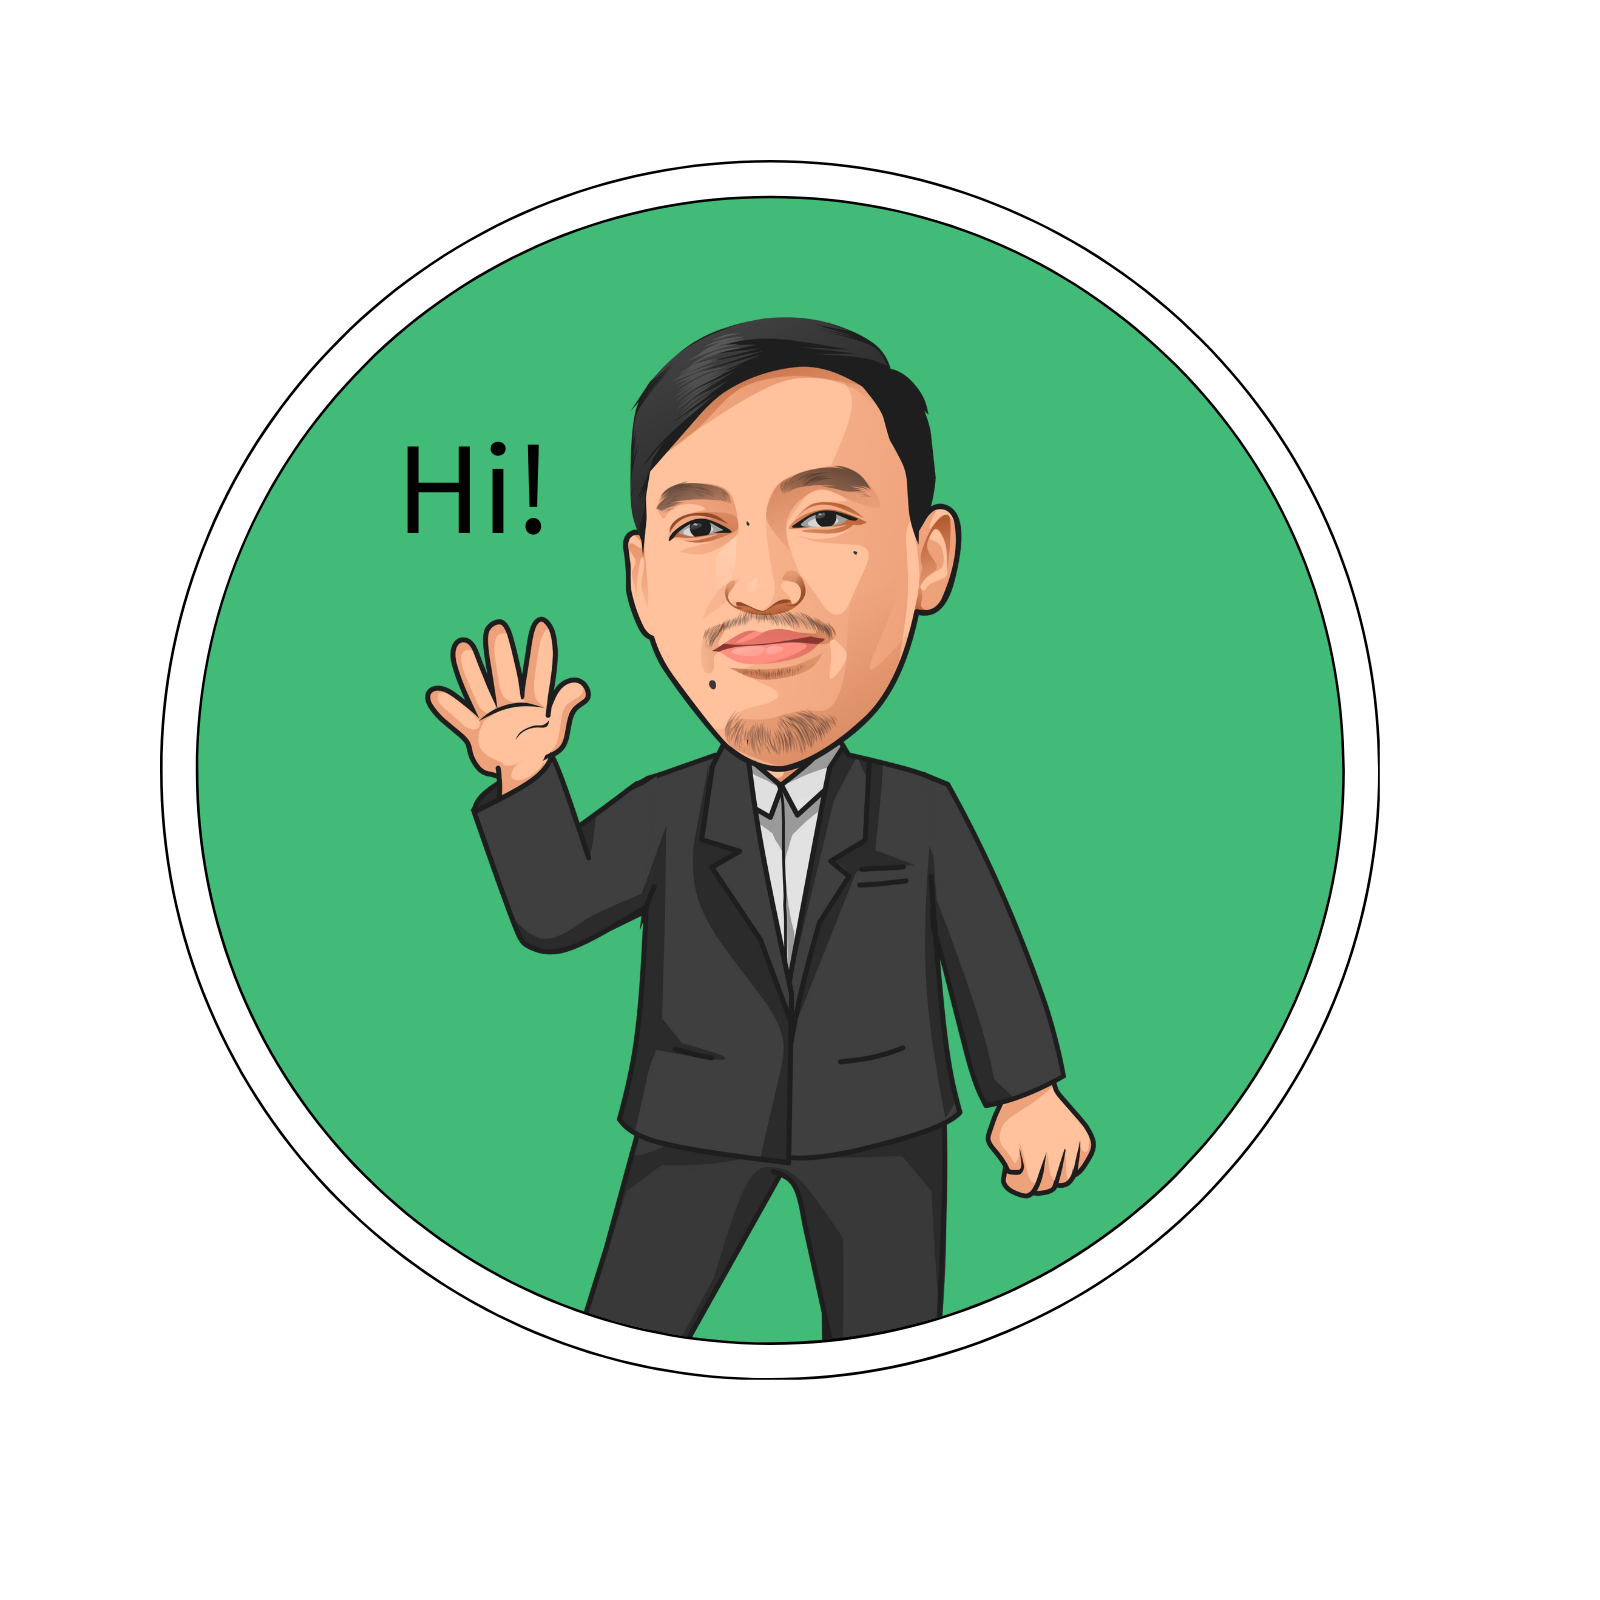
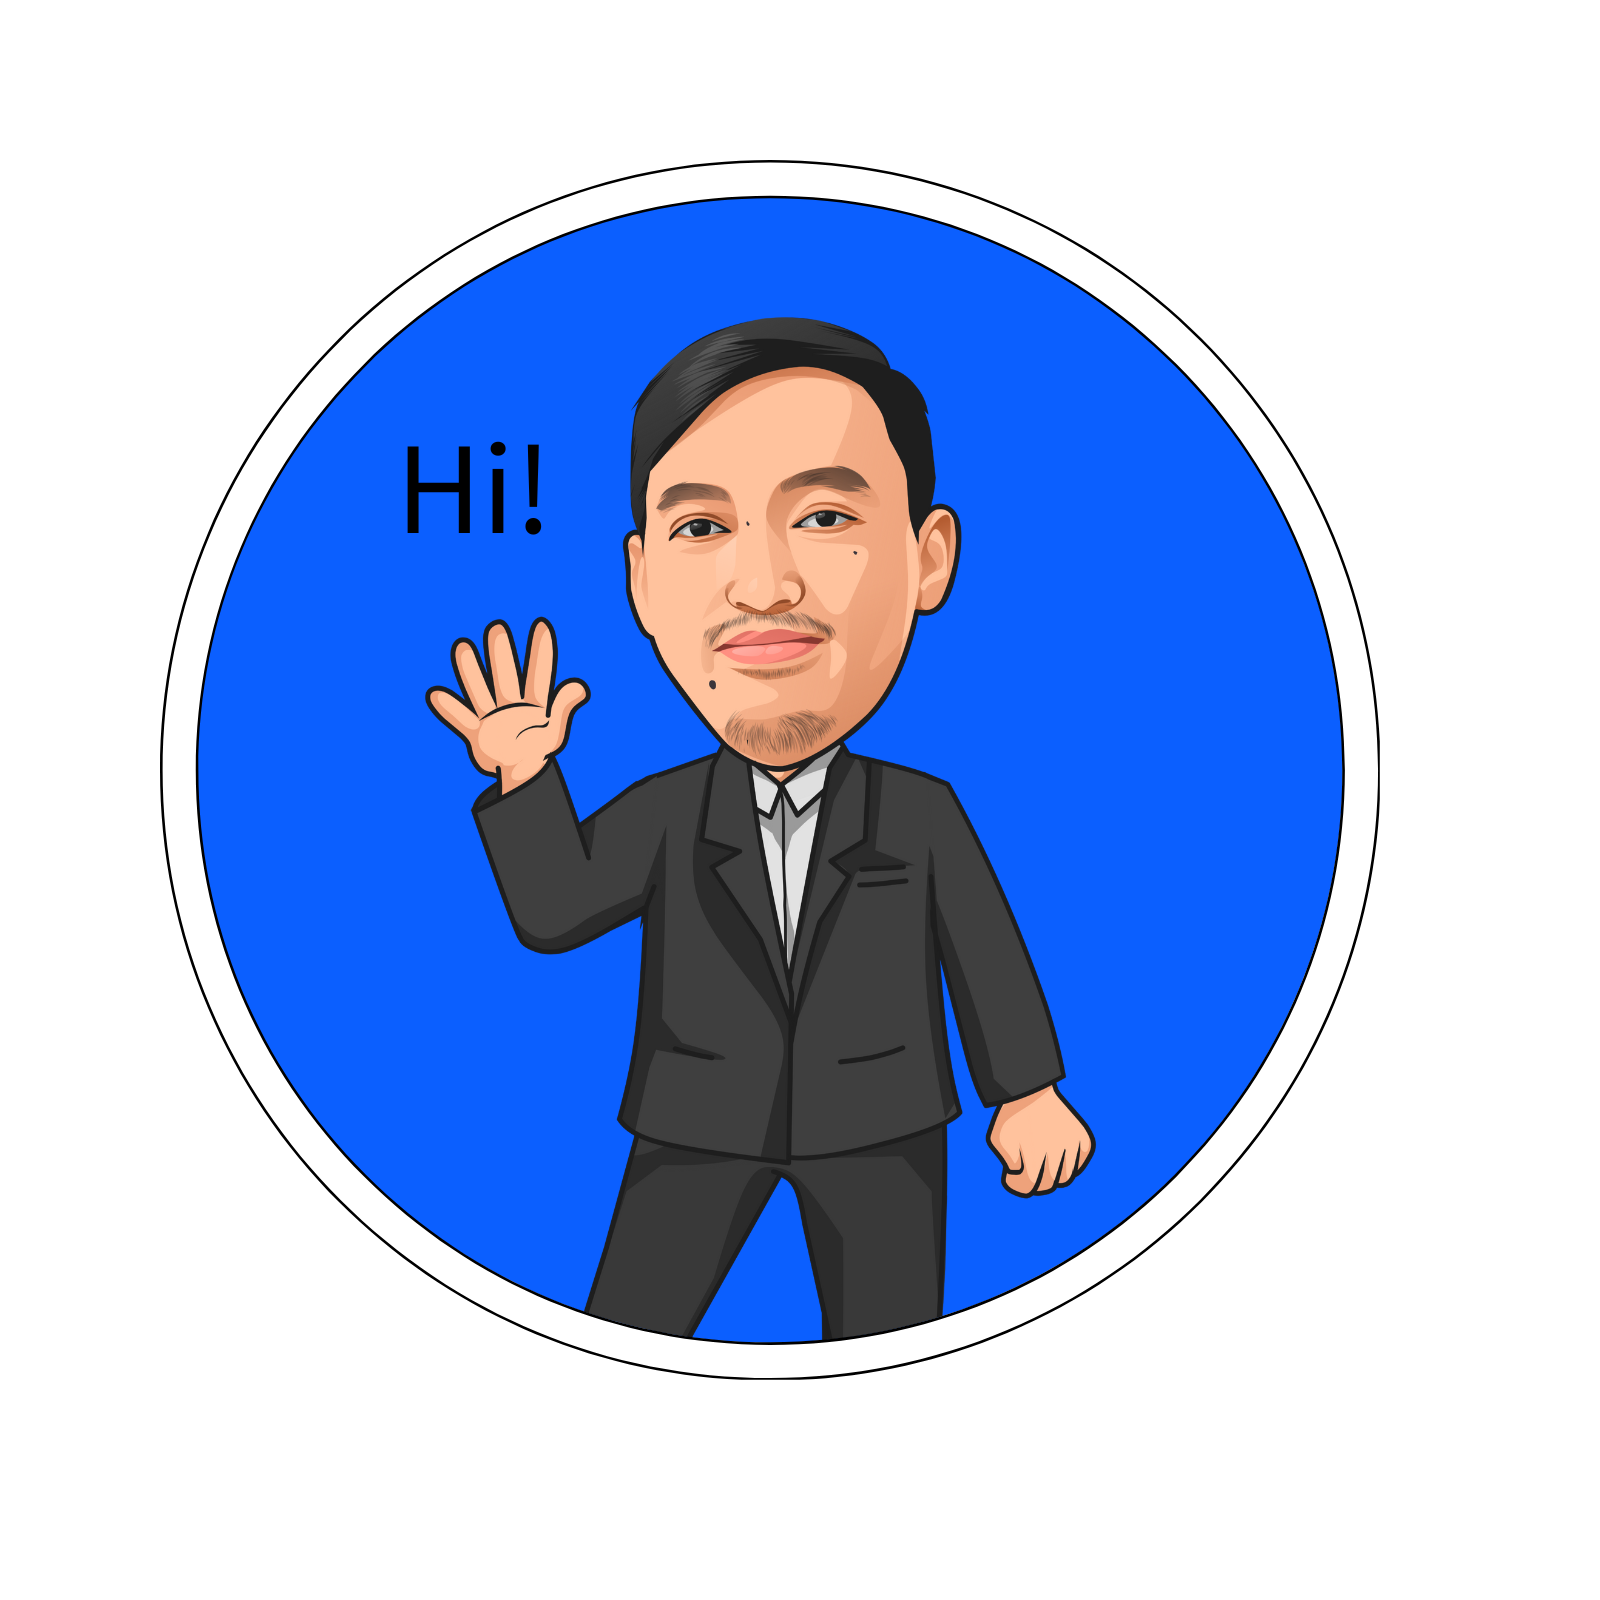
change background color

Changed region(s): [[0.125, 0.125, 0.8438, 0.8438], [0.4375, 0.7188, 0.5312, 0.8438]]

diff --git a/portfolio.html b/portfolio.html
@@ -24,13 +24,13 @@
 </head>
 <body class="min-h-screen bg-white text-gray-900">
     <!-- Hero Section -->
-    <section class="h-screen flex items-center justify-center bg-[#42ba78] text-white">
+    <section class="h-screen flex items-center justify-center bg-[#0b5fff] text-white">
         <div class="text-center">
             <img src="img/profile.png?height=500&width=500" alt="Sereyutdam Song" class="rounded-full w-48 h-48 object-cover mx-auto mb-8">
             <h1 class="text-5xl font-bold mb-4 animate-fadeInUp">Sereyutdam Song</h1>
             <p class="text-2xl mb-8 animate-fadeInUp" style="animation-delay: 0.2s;">E-Learning Specialist & Instructional Designer</p>
             <div class="animate-fadeInUp" style="animation-delay: 0.4s;">
-                <button class="bg-white text-blue-500 px-6 py-3 rounded-full font-semibold text-lg hover:bg-opacity-90 transition duration-300" onclick="document.getElementById('about').scrollIntoView({behavior: 'smooth'})">
+                <button class="bg-white text-[#0b5fff] px-6 py-3 rounded-full font-semibold text-lg hover:bg-opacity-90 transition duration-300" onclick="document.getElementById('about').scrollIntoView({behavior: 'smooth'})">
                     Learn More <i data-lucide="chevron-down" class="inline ml-2"></i>
                 </button>
             </div>
@@ -132,26 +132,24 @@
                     <input type="email" placeholder="Your Email" required class="w-full px-3 py-2 border border-gray-300 rounded-md">
                     <input type="text" placeholder="Subject" required class="w-full px-3 py-2 border border-gray-300 rounded-md">
                     <textarea placeholder="Your Message" required class="w-full px-3 py-2 border border-gray-300 rounded-md h-32"></textarea>
-                    <button type="submit" class="w-full bg-blue-500 text-white px-6 py-3 rounded-md font-semibold hover:bg-blue-600 transition duration-300">Send Message</button>
+                    <button type="submit" class="w-full bg-[#0b5fff] text-white px-6 py-3 rounded-md font-semibold hover:bg-[#0b5fff] transition duration-300">Send Message</button>
                 </form>
             </div>
         </div>
     </section>
 
     <!-- Footer -->
-    <footer class="py-6 bg-blue-500 text-white text-center">
+    <footer class="py-6 bg-[#0b5fff] text-white text-center">
         <p>&copy; 2024 Sereyutdam Song. All rights reserved.</p>
     </footer>
 
     <script>
         // Projects data
         const projects = [
-            { id: 1, title: "Corporate Training Program", category: "e-learning", image: "/placeholder.svg?height=200&width=300" },
-            { id: 2, title: "Interactive Language Course", category: "language", image: "/placeholder.svg?height=200&width=300" },
-            { id: 3, title: "Gamified Math Lessons", category: "gamification", image: "/placeholder.svg?height=200&width=300" },
-            { id: 4, title: "Virtual Reality History Tour", category: "vr", image: "/placeholder.svg?height=200&width=300" },
-            { id: 5, title: "Adaptive Learning Platform", category: "e-learning", image: "/placeholder.svg?height=200&width=300" },
-            { id: 6, title: "Microlearning Mobile App", category: "mobile", image: "/placeholder.svg?height=200&width=300" },
+            { id: 1, title: "Lectora Basic Training", category: "e-learning", image: "/placeholder.svg?height=200&width=300" },
+            { id: 2, title: "Digital Math Content", category: "e-learning", image: "/placeholder.svg?height=200&width=300" },
+            { id: 3, title: "Geography Matters", category: "gamification", image: "/placeholder.svg?height=200&width=300" },
+            { id: 4, title: "Virtual Reality Anatomy 101", category: "vr", image: "/placeholder.svg?height=200&width=300" },
         ];
 
         // Testimonials data
@@ -170,7 +168,7 @@
         filterButtons.forEach(filter => {
             const button = document.createElement('button');
             button.textContent = filter.charAt(0).toUpperCase() + filter.slice(1);
-            button.className = `px-4 py-2 rounded-md ${filter === 'all' ? 'bg-blue-500 text-white' : 'bg-gray-200 text-gray-800'}`;
+            button.className = `px-4 py-2 rounded-md ${filter === 'all' ? 'bg-[#0b5fff] text-white' : 'bg-gray-200 text-gray-800'}`;
             button.onclick = () => filterProjects(filter);
             portfolioFilters.appendChild(button);
         });
@@ -180,7 +178,7 @@
             const buttons = portfolioFilters.getElementsByTagName('button');
             for (let btn of buttons) {
                 btn.className = btn.textContent.toLowerCase() === category
-                    ? 'px-4 py-2 rounded-md bg-blue-500 text-white'
+                    ? 'px-4 py-2 rounded-md bg-[#0b5fff] text-white'
                     : 'px-4 py-2 rounded-md bg-gray-200 text-gray-800';
             }
             renderProjects();
